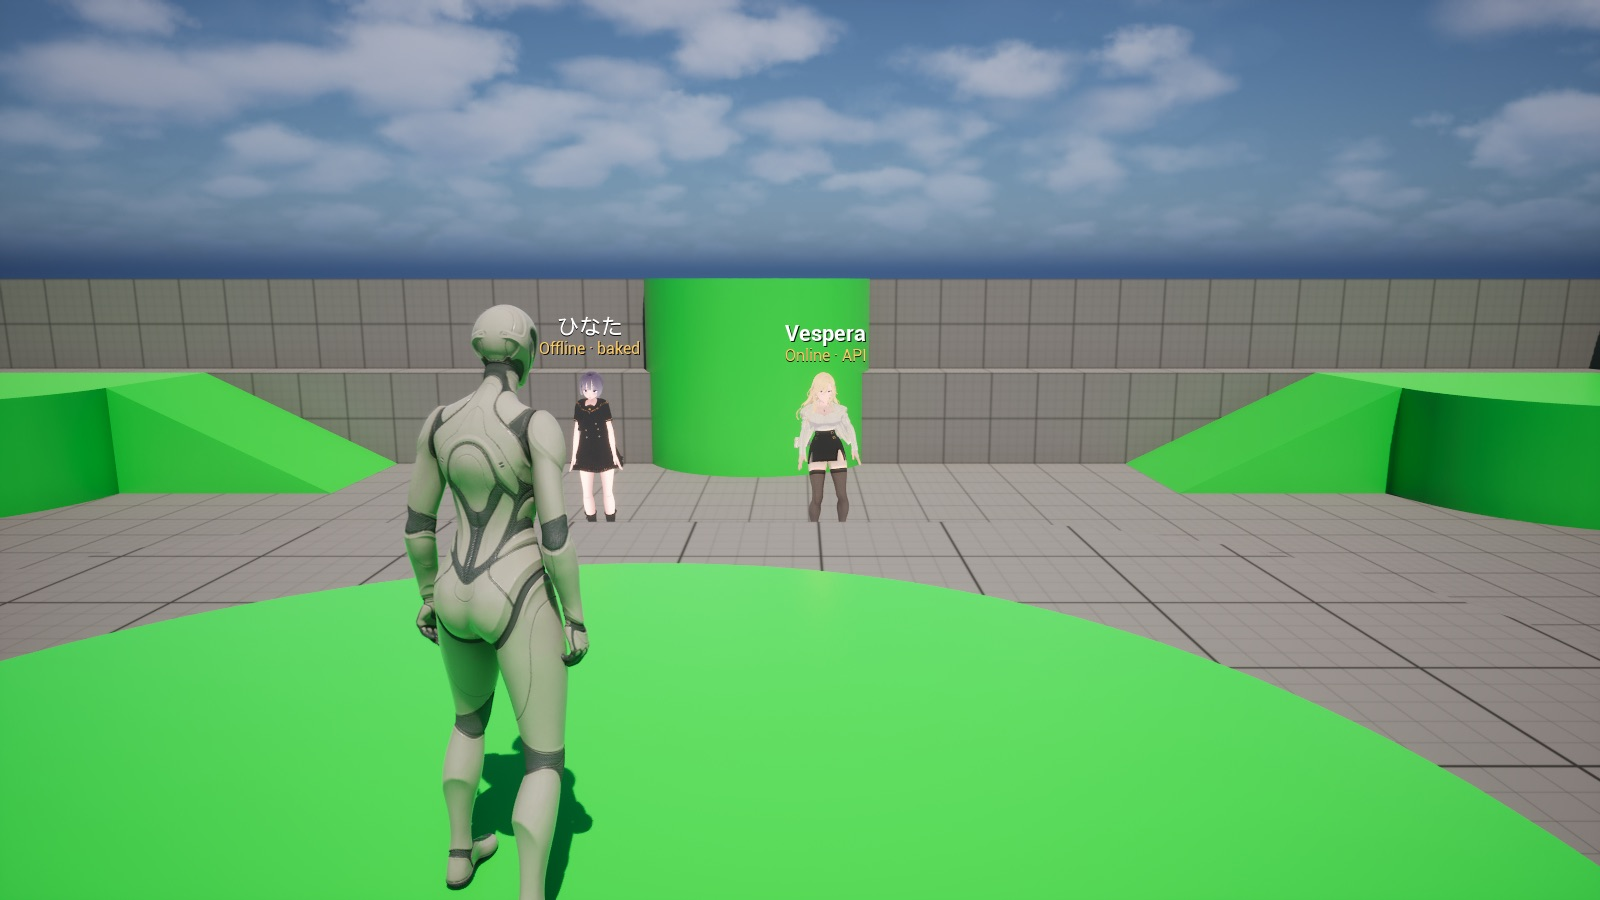
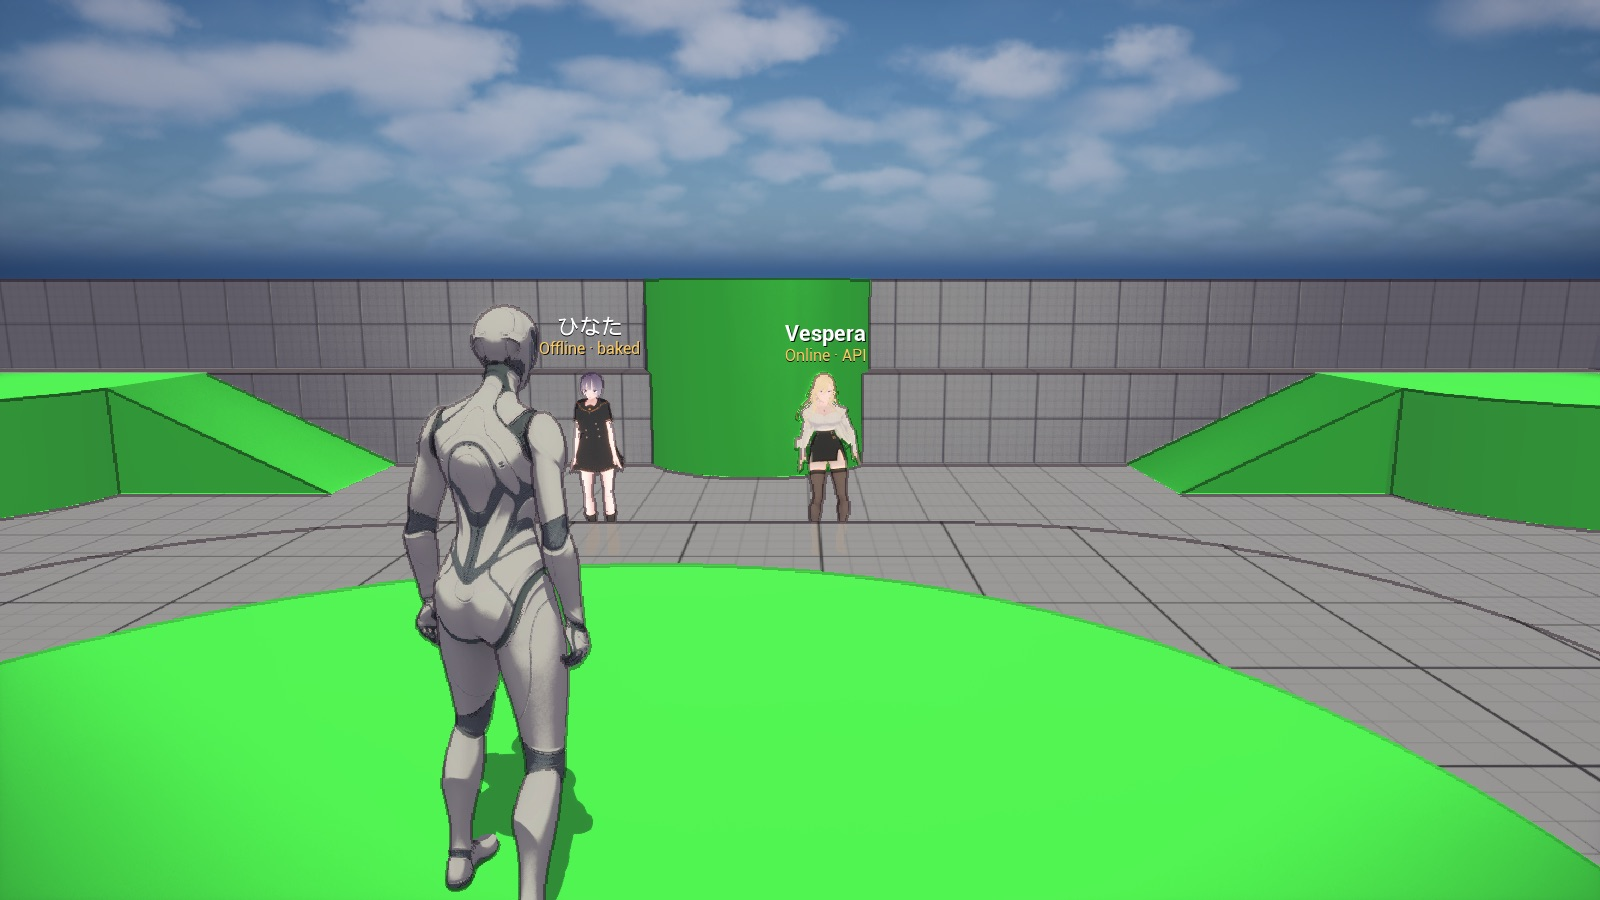
feat: anime look with cel shading and ink lines
A post-process material after tonemapping turns the light on each pixel into
two flat tones with a tinted shade, and draws ink lines from depth and normal
edges. VRM characters (custom stencil 1) keep their MToon shading. The demo
volume turns off Lumen GI, Lumen reflections and AO, whose noise speckles the
band edges. Scripts/make_toon_material.py makes the material.

diff --git a/Scripts/make_toon_material.py b/Scripts/make_toon_material.py
@@ -1,0 +1,143 @@
+"""Makes /Game/Npcify/Rendering/PP_NpcifyToon, the anime post-process material.
+
+Run in the editor (Python console) or headless:
+  UnrealEditor-Cmd NpcifyExample.uproject -run=pythonscript -script="<repo>/Scripts/make_toon_material.py"
+
+The material runs after tonemapping:
+- Cel shading: the lighting of each pixel (scene color / base color) becomes two flat
+  tones, lit and shade, with a tinted shade. Pixels with custom stencil 1 (the VRM
+  characters, which have their own MToon shading) and unlit pixels (sky) keep their color.
+- Ink lines: depth and normal edges darken the color below them, and fade with distance.
+"""
+
+import unreal
+
+PACKAGE_PATH = "/Game/Npcify/Rendering"
+ASSET_NAME = "PP_NpcifyToon"
+
+# The code reads ESceneTextureId values (MaterialSceneTextureId.h): 1 SceneDepth,
+# 5 BaseColor, 8 WorldNormal, 14 PostProcessInput0, 25 CustomStencil.
+SCENE_TEXTURES = {
+    "InColor": "PPI_POST_PROCESS_INPUT0",
+    "InDepth": "PPI_SCENE_DEPTH",
+    "InNormal": "PPI_WORLD_NORMAL",
+    "InBase": "PPI_BASE_COLOR",
+    "InStencil": "PPI_CUSTOM_STENCIL",
+}
+
+HLSL = r"""
+float2 uv = GetDefaultSceneTextureUV(Parameters, 14);
+float2 px = View.BufferSizeAndInvSize.zw * Thickness;
+// The center pixel comes from the inputs. The engine strips scene texture inputs
+// that the code does not use, and the neighbor lookups need those bindings.
+float3 color = InColor.rgb;
+float depth = InDepth.r;
+float3 normal = InNormal.rgb / max(length(InNormal.rgb), 1e-4);
+float3 base = InBase.rgb;
+float stencil = InStencil.r;
+
+float3 lin = pow(max(color, 0), 2.2);
+float3 result = lin;
+if (stencil < 0.5 && max(base.r, max(base.g, base.b)) > 0.01)
+{
+    float3 ratio = lin / max(base, 0.03);
+    float light = dot(ratio, float3(0.2126, 0.7152, 0.0722));
+    float lit = smoothstep(Threshold * 0.75, Threshold * 1.15, light);
+    float3 flatTone = base * lerp(ShadeTint, LitLevel.xxx, lit);
+    result = lerp(lin, flatTone, Strength);
+}
+
+float2 offsets[4] = { float2(px.x, 0), float2(-px.x, 0), float2(0, px.y), float2(0, -px.y) };
+float depthEdge = 0;
+float normalEdge = 0;
+for (int i = 0; i < 4; i++)
+{
+    float2 neighbor = uv + offsets[i];
+    // Only a farther neighbor makes a line, so the line is on the near object.
+    depthEdge = max(depthEdge, (SceneTextureLookup(neighbor, 1, false).r - depth) / depth);
+    float3 m = SceneTextureLookup(neighbor, 8, false).rgb;
+    normalEdge = max(normalEdge, 1 - dot(normal, m / max(length(m), 1e-4)));
+}
+float edge = max(smoothstep(0.05, 0.08, depthEdge), smoothstep(0.35, 0.5, normalEdge));
+float fade = 1 - saturate((depth - FadeStart) / max(FadeEnd - FadeStart, 1));
+result = lerp(result, result * InkColor, edge * fade * InkStrength);
+if (Debug > 0.5)
+{
+    if (uv.x < 0.33) return color;
+    if (uv.x < 0.66) return base;
+    return float3(stencil, depth / 10000, dot(lin / max(base, 0.03), float3(0.2126, 0.7152, 0.0722)) * 0.5);
+}
+return pow(result, 1 / 2.2);
+"""
+
+SCALARS = {
+    "Threshold": 0.9,
+    "LitLevel": 1.8,
+    "Strength": 0.85,
+    "Thickness": 1.3,
+    "InkStrength": 0.85,
+    "FadeStart": 2500.0,
+    "FadeEnd": 8500.0,
+    "Debug": 0.0,
+}
+VECTORS = {
+    "ShadeTint": (0.62, 0.57, 0.78),
+    "InkColor": (0.30, 0.22, 0.28),
+}
+
+
+def make_material():
+    library = unreal.MaterialEditingLibrary
+    path = f"{PACKAGE_PATH}/{ASSET_NAME}"
+    if unreal.EditorAssetLibrary.does_asset_exist(path):
+        unreal.EditorAssetLibrary.delete_asset(path)
+    tools = unreal.AssetToolsHelpers.get_asset_tools()
+    material = tools.create_asset(ASSET_NAME, PACKAGE_PATH, unreal.Material, unreal.MaterialFactoryNew())
+    material.set_editor_property("material_domain", unreal.MaterialDomain.MD_POST_PROCESS)
+    material.set_editor_property("blendable_location", unreal.BlendableLocation.BL_SCENE_COLOR_AFTER_TONEMAPPING)
+
+    custom = library.create_material_expression(material, unreal.MaterialExpressionCustom, -400, 0)
+    custom.set_editor_property("code", HLSL)
+    custom.set_editor_property("output_type", unreal.CustomMaterialOutputType.CMOT_FLOAT3)
+    custom.set_editor_property("description", "Npcify toon")
+
+    names = list(SCENE_TEXTURES) + list(SCALARS) + list(VECTORS)
+    inputs = []
+    for name in names:
+        custom_input = unreal.CustomInput()
+        custom_input.set_editor_property("input_name", name)
+        inputs.append(custom_input)
+    custom.set_editor_property("inputs", inputs)
+
+    for index, (name, texture_id) in enumerate(SCENE_TEXTURES.items()):
+        node = library.create_material_expression(material, unreal.MaterialExpressionSceneTexture, -1000, index * 160)
+        node.set_editor_property("scene_texture_id", getattr(unreal.SceneTextureId, texture_id))
+        library.connect_material_expressions(node, "Color", custom, name)
+
+    y = 900
+    for name, value in SCALARS.items():
+        node = library.create_material_expression(material, unreal.MaterialExpressionScalarParameter, -800, y)
+        node.set_editor_property("parameter_name", name)
+        node.set_editor_property("default_value", value)
+        library.connect_material_expressions(node, "", custom, name)
+        y += 110
+    for name, value in VECTORS.items():
+        node = library.create_material_expression(material, unreal.MaterialExpressionVectorParameter, -800, y)
+        node.set_editor_property("parameter_name", name)
+        node.set_editor_property("default_value", unreal.LinearColor(value[0], value[1], value[2], 1.0))
+        mask = library.create_material_expression(material, unreal.MaterialExpressionComponentMask, -600, y)
+        mask.set_editor_property("r", True)
+        mask.set_editor_property("g", True)
+        mask.set_editor_property("b", True)
+        mask.set_editor_property("a", False)
+        library.connect_material_expressions(node, "", mask, "")
+        library.connect_material_expressions(mask, "", custom, name)
+        y += 160
+
+    library.connect_material_property(custom, "", unreal.MaterialProperty.MP_EMISSIVE_COLOR)
+    library.recompile_material(material)
+    unreal.EditorAssetLibrary.save_loaded_asset(material)
+    unreal.log(f"Npcify toon material saved: {path}")
+
+
+make_material()

diff --git a/Source/NpcifyExample/Npcify/NpcifyDemoSubsystem.cpp b/Source/NpcifyExample/Npcify/NpcifyDemoSubsystem.cpp
@@ -1,6 +1,8 @@
 #include "NpcifyDemoSubsystem.h"
 
+#include "Engine/PostProcessVolume.h"
 #include "Engine/World.h"
+#include "Materials/MaterialInterface.h"
 #include "EngineUtils.h"
 #include "GameFramework/PlayerStart.h"
 #include "Misc/CommandLine.h"
@@ -81,6 +83,25 @@ void UNpcifyDemoSubsystem::OnWorldBeginPlay(UWorld& World)
 	}
 
 	World.SpawnActor<ANpcifyDialogueDirector>();
+
+	// Anime look for the whole level: cel shading and ink lines (Scripts/make_toon_material.py).
+	if (UMaterialInterface* Toon = LoadObject<UMaterialInterface>(nullptr, TEXT("/Game/Npcify/Rendering/PP_NpcifyToon.PP_NpcifyToon")))
+	{
+		APostProcessVolume* Volume = World.SpawnActor<APostProcessVolume>();
+		Volume->bUnbound = true;
+		Volume->Priority = 10.f;
+		Volume->Settings.AddBlendable(Toon, 1.f);
+		Volume->Settings.bOverride_ColorSaturation = true;
+		Volume->Settings.ColorSaturation = FVector4(1.12f, 1.12f, 1.12f, 1.f);
+		// Noise of Lumen and ambient occlusion makes speckles at the cel band edges.
+		// A flat sky light gives one clean shade tone.
+		Volume->Settings.bOverride_DynamicGlobalIlluminationMethod = true;
+		Volume->Settings.DynamicGlobalIlluminationMethod = EDynamicGlobalIlluminationMethod::None;
+		Volume->Settings.bOverride_ReflectionMethod = true;
+		Volume->Settings.ReflectionMethod = EReflectionMethod::None;
+		Volume->Settings.bOverride_AmbientOcclusionIntensity = true;
+		Volume->Settings.AmbientOcclusionIntensity = 0.f;
+	}
 
 	FString AutotestFolder;
 	if (FParse::Value(FCommandLine::Get(), TEXT("NpcifyAutotest="), AutotestFolder))

diff --git a/Source/NpcifyExample/Npcify/NpcifyNpc.cpp b/Source/NpcifyExample/Npcify/NpcifyNpc.cpp
@@ -26,6 +26,10 @@ ANpcifyNpc::ANpcifyNpc()
 	Mesh->SetRelativeLocationAndRotation(FVector(0.f, 0.f, -90.f), FRotator(0.f, -90.f, 0.f));
 	Mesh->SetCollisionEnabled(ECollisionEnabled::NoCollision);
 	Mesh->VisibilityBasedAnimTickOption = EVisibilityBasedAnimTickOption::AlwaysTickPoseAndRefreshBones;
+	// Stencil 1: the toon post-process (PP_NpcifyToon) keeps the MToon shading of the
+	// character and adds only the ink lines.
+	Mesh->SetRenderCustomDepth(true);
+	Mesh->SetCustomDepthStencilValue(1);
 
 	Npcify = CreateDefaultSubobject<UNpcifyCharacterComponent>(TEXT("Npcify"));
 	Npcify->HeadBoneName = TEXT("head");

diff --git a/README.md b/README.md
@@ -66,6 +66,7 @@ Esc stops Play In Editor, so use **Q** in the editor.
 | NPC actor: VRM model, baked animations, Npcify Character component | `Source/NpcifyExample/Npcify/NpcifyNpc.cpp` |
 | Interaction prompt, conversation flow, input, conversation camera | `Source/NpcifyExample/Npcify/NpcifyDialogueDirector.cpp` |
 | RPG dialogue UI (UMG built in C++) | `Source/NpcifyExample/Npcify/NpcifyDialogueWidget.cpp` |
+| Anime post-process material | `Scripts/make_toon_material.py` |
 | Editor import of the characters | `Source/NpcifyExampleEditor/Private/NpcifyImportCharactersCommandlet.cpp` |
 
 `UNpcifyCharacterComponent` from the Npcify Unreal SDK (`Plugins/NpcifySdk`,
@@ -86,6 +87,29 @@ materials, the morph targets and the spring-bone post-process AnimBP). The
 character's VRMA animations from Npcify are baked onto the character skeleton
 (`Animations/AS_<animation ID>`), so the NPC plays the same idle, bow or
 gesture animations that the Npcify web player uses.
+
+### Anime look
+
+The level is drawn in a cel-shaded anime style. The post-process material
+`/Game/Npcify/Rendering/PP_NpcifyToon` (made by `Scripts/make_toon_material.py`)
+runs after tonemapping:
+
+- **Cel shading.** The light on each pixel (scene color divided by base color)
+  becomes two flat tones: lit, and a tinted shade. The VRM characters keep their
+  own MToon shading (custom stencil 1, set by `ANpcifyNpc`).
+- **Ink lines.** Depth and normal edges darken the color below them, so the
+  lines have the color of the surface. They fade out with distance.
+
+`UNpcifyDemoSubsystem` adds an unbound post-process volume with this material. The
+volume also turns off Lumen global illumination, Lumen reflections and ambient
+occlusion: their noise makes speckles at the edge between the two tones. To change
+the look, change the material parameters (`Threshold`, `ShadeTint`, `InkColor`,
+`Thickness` and others) in a material instance, or edit the script and run it again:
+
+```bash
+"/Users/Shared/Epic Games/UE_5.8/Engine/Binaries/Mac/UnrealEditor-Cmd" "$PWD/NpcifyExample.uproject" \
+  -run=pythonscript -script="$PWD/Scripts/make_toon_material.py"
+```
 
 ## Use your own characters
 
